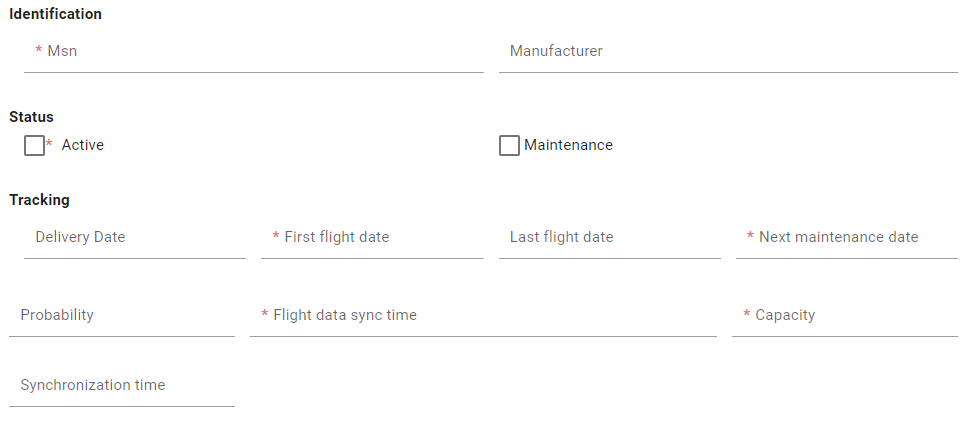
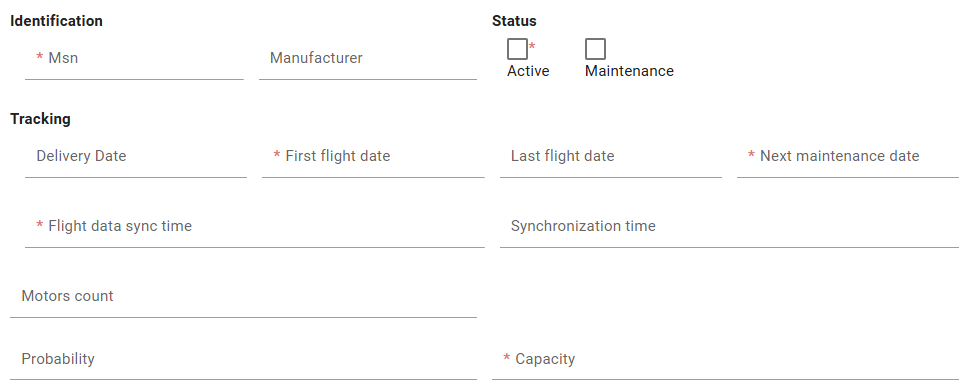
Update form layout documentation

diff --git a/docs/40-DeveloperGuide/20-CRUD/70-FormConfiguration.md b/docs/40-DeveloperGuide/20-CRUD/70-FormConfiguration.md
@@ -72,62 +72,150 @@ export const featureFieldsConfiguration: BiaFieldsConfig<Feature> = {
 
 ## Form layout
 ### Principles 
-The class `BiaFormLayoutConfig<TDto>` is the container of your form layout configuration. Each items of this class will represent a configuration to customize the disposition of your inputs into the form. 
+#### Hierarchy
+The class `BiaFormLayoutConfig<TDto>` is the container of your form layout configuration. Each items of this class will represent a configuration to customize the disposition of your inputs into the form, where `TDto` represents your feature model.
 
 These items can be :
-1. `BiaFormLayoutConfigRow<TDto>` : a row that will contains a set of `BiaFormLayoutConfigColumns<TDto>` which represents each a field of one of your feature's property
-2. `BiaFormLayoutConfigGroup<TDto>` : a group of `BiaFormLayoutConfigRow<TDto>` under a title  
+- `BiaFormLayoutConfigRow<TDto>` : a row that will contains a set of `BiaFormLayoutConfigColumn<TDto>` 
+- `BiaFormLayoutConfigGroup<TDto>` : a group of `BiaFormLayoutConfigRow<TDto>` under a title (title must refer to a traductible resource) 
 
-When declaring a `BiaFormLayoutConfigColumns<TDto>`, you can set a column size according to the principle of columns contained into a grid. This column size must be set **between 1 and 12 to be valid**.  
-The column without specified column size are managed by the `BiaFormLayoutConfigRow<TDto>` that calculate the ideal column size depending both on the remaining column size and the columns count into the row.
+``` typescript
+// Config
+new BiaFormLayoutConfig<Feature>([
+  // First row
+  new BiaFormLayoutConfigRow([]),
+  // Second row, wich is a group
+  new BiaFormLayoutConfigGroup('feature.groupTitle', [
+    // First row of the group
+    new BiaFormLayoutConfigRow([]),
+    // Second row of the group
+    new BiaFormLayoutConfigRow([]),
+  ]),
+])
+```
 
+A `BiaFormLayoutConfigColumn<TDto>` element can be both : 
+- `BiaFormLayoutConfigField<TDto>` which represents a field of one of your feature's property
+- `BiaFormLayoutConfigGroup<TDto>` so you can set in a column a new group of fields
+
+``` typescript
+// Config
+new BiaFormLayoutConfig<Feature>([
+  // First row
+  new BiaFormLayoutConfigRow([
+    // First column, which is a field
+    new BiaFormLayoutConfigField('field1'),
+    // Second column, which is a group
+    new BiaFormLayoutConfigGroup('feature.groupTitle', [
+      // First row of the group
+      new BiaFormLayoutConfigRow([
+        // First column, which is a field
+        new BiaFormLayoutConfigField('field2')
+        // Second column, which is a field
+        new BiaFormLayoutConfigField('field3')
+      ]),
+    ]),
+  ]),
+])
+```
 **NOTE :** all the fields used into the `BiaFormLayoutConfig` must have been declared into the `BiaFieldsConfig` of your CRUD feature. 
+
+#### Responsive design
+When declaring a `BiaFormLayoutConfigField<TDto>` or a `BiaFormLayoutConfigGroup<TDto>`, you can set the column size of these elements by :
+- setting only the `lgSize` which represents the column size for large screen (>= 992px) :
+  ``` typescript
+  new BiaFormLayoutConfigGroup<Feature>('Group', groupRows, 2)
+  new BiaFormLayoutConfigField<Feature>('field', 2)
+  ```
+  The `lgSize` must be set **between 1 and 12** to be valid.  
+  The mobile first column size (< 576px) will be always **12**.  
+
+  The `md` and `sm` sizes will be automatically calculate according to the following ratio table :  
+
+  | lg (>= 992px) | md (>= 768px) | sm (>= 576px)  |
+  |------------|------------------|---------------|
+  | 1          | 1                | 2             |
+  | 2          | 3                | 4             |
+  | 3          | 4                | 6             |
+  | 4          | 6                | 8             |
+  | 5          | 7                | 10            |
+  | 6          | 9                | 12            |
+  | 7          | 10               | 12            |
+  | 8          | 12               | 12            |
+  | 9          | 12               | 12            |
+  | 10         | 12               | 12            |
+  | 11         | 12               | 12            |
+  | 12         | 12               | 12            |
+- setting all the size breakpoints (`lg`, `md`, `sm` and `mobileFirst`) inside a `BiaFormLayoutConfigColumnSize` class :
+  ``` typescript
+  new BiaFormLayoutConfigGroup<Feature>('Group', groupRows, new BiaFormLayoutConfigColumnSize(6, 6, 6, 6))
+  new BiaFormLayoutConfigField<Feature>('field', new BiaFormLayoutConfigColumnSize(6, 6, 6, 6))
+  ```
+
+**NOTE :** if you don't specify the column size, the parent `BiaFormLayoutConfigRow<TDto>` will compute the ideal column size depending both on the remaining column sizeleft by the columns with a custom size, and the total columns count into the row.
 
 ### Configuration
 1. In front-end, open the model of your feature
 2. Complete or add the `BiaFormLayoutConfig<TDto>` definition with your form configuration
 3. Add the groups, rows and columns by required order of display
 
-Example : 
+Full example : 
 ``` typescript title="feature.ts"
 export const featureFormConfiguration: BiaFormLayoutConfig<Feature> = new BiaFormLayoutConfig([
-  // Define a group
-  new BiaFormLayoutConfigGroup('Identification', [
-    // Define a row inside the group
-    new BiaFormLayoutConfigRow([
-      // Define the columns of the row
-      new BiaFormLayoutConfigColumn('msn'),
-      new BiaFormLayoutConfigColumn('manufacturer'),
-    ]),
-  ]),
-  new BiaFormLayoutConfigGroup('Status', [
-    new BiaFormLayoutConfigRow([
-      new BiaFormLayoutConfigColumn('isActive'),
-      new BiaFormLayoutConfigColumn('isMaintenance'),
-    ]),
-  ]),
-  new BiaFormLayoutConfigGroup('Tracking', [
-    new BiaFormLayoutConfigRow([
-      new BiaFormLayoutConfigColumn('deliveryDate'),
-      new BiaFormLayoutConfigColumn('firstFlightDate'),
-      new BiaFormLayoutConfigColumn('lastFlightDate'),
-      new BiaFormLayoutConfigColumn('nextMaintenanceDate'),
-    ]),
-  ]),
-  // Define a row
+  // First row with two groups
   new BiaFormLayoutConfigRow([
-    // Define the columns of the row
-    new BiaFormLayoutConfigColumn('syncTime'),
-    // Define a column with a sepcific size
-    new BiaFormLayoutConfigColumn('syncFlightDataTime', 6),
-    new BiaFormLayoutConfigColumn('capacity'),
+    // First group with single row
+    new BiaFormLayoutConfigGroup('feature.groupIdentification', [
+      // Row with two fields
+      new BiaFormLayoutConfigRow([
+        new BiaFormLayoutConfigField('msn'),
+        new BiaFormLayoutConfigField('manufacturer'),
+      ]),
+    ]),
+
+    // Second group with single row
+    new BiaFormLayoutConfigGroup('feature.groupStatus', [
+      // Row with two fields with custom column lg size
+      new BiaFormLayoutConfigRow([
+        new BiaFormLayoutConfigField('isActive', 2),
+        new BiaFormLayoutConfigField('isMaintenance', 2),
+      ]),
+    ]),
   ]),
-  // Define a row with a single column with a specific size
-  new BiaFormLayoutConfigRow([new BiaFormLayoutConfigColumn('syncTime', 3)]),
+
+  // Second row with single group with two rows
+  new BiaFormLayoutConfigGroup('feature.groupTracking', [
+    // First row with four fields
+    new BiaFormLayoutConfigRow([
+      new BiaFormLayoutConfigField('deliveryDate'),
+      new BiaFormLayoutConfigField('firstFlightDate'),
+      new BiaFormLayoutConfigField('lastFlightDate'),
+      new BiaFormLayoutConfigField('nextMaintenanceDate'),
+    ]),
+    //Second row with single field
+    new BiaFormLayoutConfigRow([
+      new BiaFormLayoutConfigField('syncFlightDataTime'),
+      new BiaFormLayoutConfigField('syncTime'),
+    ]),
+  ]),
+
+  // Third row with single field with full custom column sizes
+  new BiaFormLayoutConfigRow([
+    new BiaFormLayoutConfigField(
+      'motorsCount',
+      new BiaFormLayoutConfigColumnSize(6, 6, 6, 6)
+    ),
+  ]),
+
+  // Fourth row with two fields
+  new BiaFormLayoutConfigRow([
+    new BiaFormLayoutConfigField('probability'),
+    new BiaFormLayoutConfigField('capacity'),
+  ]),
 ]);
 ```
 
-The framework will automatically generate the form according to the `BiaFormLayoutConfig` :
+The framework will automatically generate the form like this :
 ![FormConfiguration](../../Images/FormConfiguration.png)
 
 **NOTE :** all the remaining fields declared into the `BiaFieldsConfig` will be displayed after the fields handled into the `BiaFormLayoutConfig`.
@@ -138,6 +226,7 @@ Into your feature constants declaration, add the definition of the `formLayoutCo
 export const featureCRUDConfiguration: CrudConfig<Feature> = new CrudConfig({
   featureName: 'features',
   fieldsConfig: featureFieldsConfiguration
+  // Add here your form layout config const reference
   formLayoutConfig: featureFormLayoutConfiguration,
   [...]
 });
